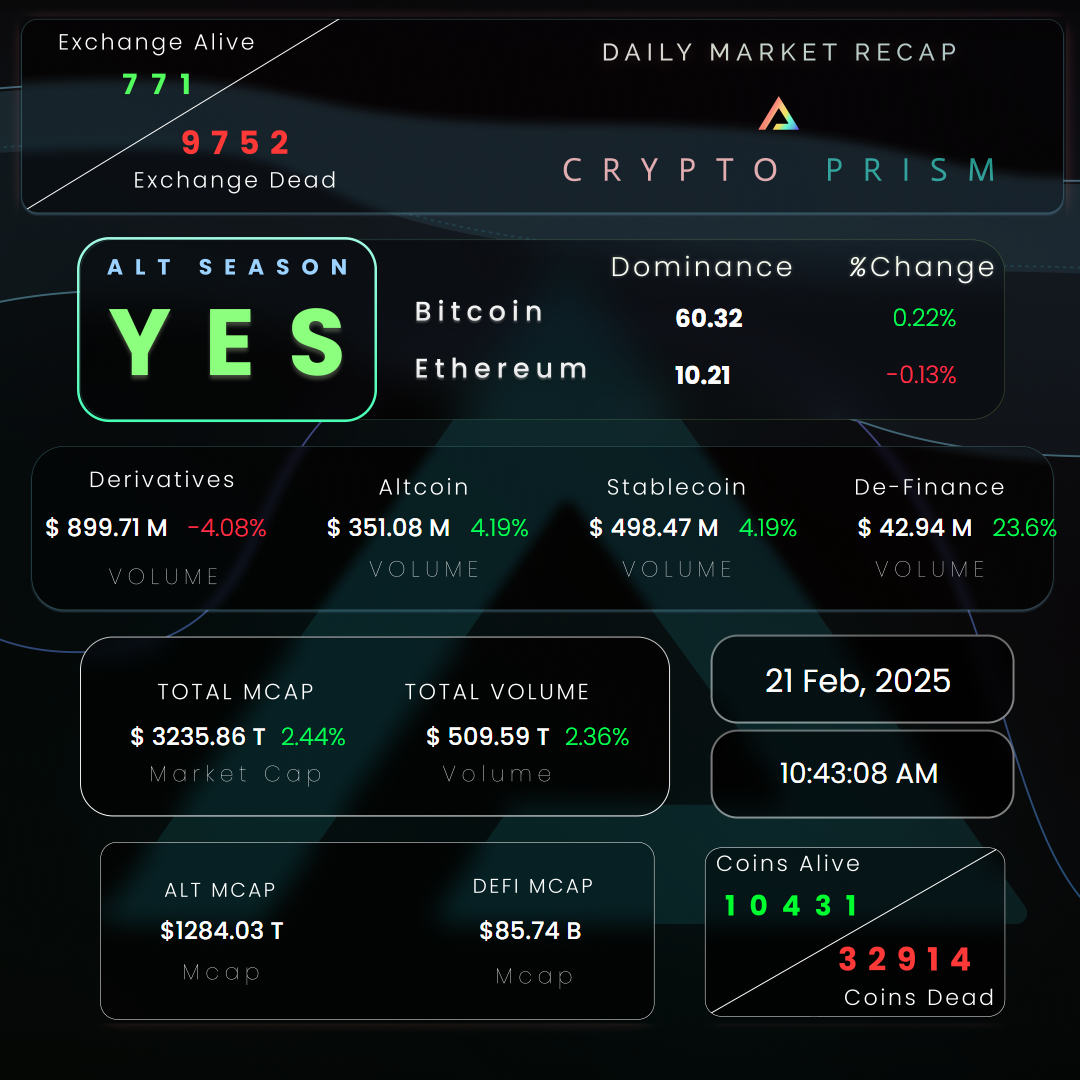
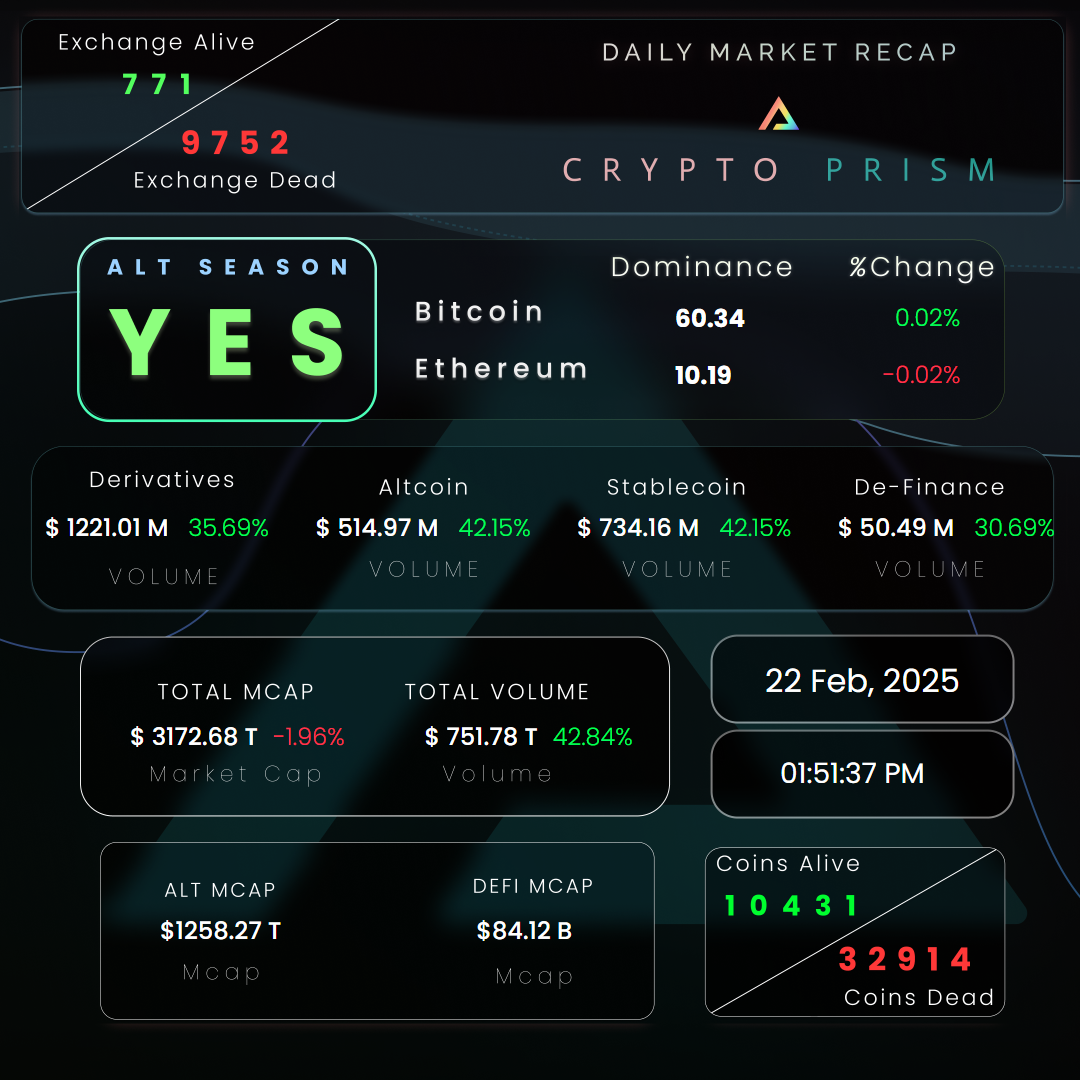
css fix

diff --git a/5_output.html b/5_output.html
@@ -14,12 +14,12 @@
         <div class="row1" style="display: flex; padding-bottom: 35px">
             <div class="season" style="font-size:21px">
                 <div style="display: flex; gap: 150px;">
-                    <h3 style="margin: 0px;">60.32</h3>
-                    <h3 style="margin: 0px;" class="pct-change positive">0.22%</h3>
+                    <h3 style="margin: 0px;">60.34</h3>
+                    <h3 style="margin: 0px;" class="pct-change positive">0.02%</h3>
                 </div>
                 <div style="display: flex; gap: 150px">
-                    <h3 style="margin-top: 10px;">10.21</h3>
-                    <h3 style="margin-top: 10px;" class="pct-change negative">-0.13%</h3>
+                    <h3 style="margin-top: 10px;">10.19</h3>
+                    <h3 style="margin-top: 10px;" class="pct-change negative">-0.02%</h3>
                 </div>
             </div>
         </div>
@@ -29,20 +29,20 @@
         <div class="row2" style="margin: 10px;">
             <div class="roww2">
                 <div style="display: flex; gap:20px">
-                    <h2 class="m-cap">$ 899.71 M</h2>
-                    <h3 class="pct-change negative" style="margin-top: 20px;">-4.08%</h3>
+                    <h2 class="m-cap">$ 1221.01 M</h2>
+                    <h3 class="pct-change positive" style="margin-top: 20px;">35.69%</h3>
                 </div>
                 <div style="display: flex; gap:20px">
-                    <h2 class="m-cap">$ 351.08 M</h3>
-                    <h3 class="pct-change positive" style="margin-top: 20px;">4.19%</h3>
+                    <h2 class="m-cap">$ 514.97 M</h3>
+                    <h3 class="pct-change positive" style="margin-top: 20px;">42.15%</h3>
                 </div>
                 <div style="display: flex; gap:20px">
-                    <h2 class="m-cap">$ 498.47 M</h3>
-                    <h3 class="pct-change positive" style="margin-top: 20px;">4.19%</h3>
+                    <h2 class="m-cap">$ 734.16 M</h3>
+                    <h3 class="pct-change positive" style="margin-top: 20px;">42.15%</h3>
                 </div>
                 <div style="display: flex; gap:20px">
-                    <h2 class="m-cap">$ 42.94 M</h3>
-                    <h3 class="pct-change positive" style="margin-top: 20px;">23.6%</h3>
+                    <h2 class="m-cap">$ 50.49 M</h3>
+                    <h3 class="pct-change positive" style="margin-top: 20px;">30.69%</h3>
                 </div>
             </div>
         </div>
@@ -52,12 +52,12 @@
         <div> 
                 <div class="roww3" style="display: flex; gap:80px;">
                     <div style="display: flex; gap:15px;">
-                        <p class="m-cap">$ 3235.86 T</p>
-                        <p class="pct-change positive">2.44%</p>
+                        <p class="m-cap">$ 3172.68 T</p>
+                        <p class="pct-change negative">-1.96%</p>
                     </div>
                     <div style="display: flex; gap:15px">
-                        <p class="m-cap">$ 509.59 T</p>
-                        <p class="pct-change positive">2.36%</p>
+                        <p class="m-cap">$ 751.78 T</p>
+                        <p class="pct-change positive">42.84%</p>
                     </div>
                 </div>
         </div>
@@ -66,17 +66,17 @@
     <div style="position: absolute; top: 889px; left: 145px;">
         <div class="row4">
             <div style="display: flex; gap:195px; padding-left: 15px">
-                <p class="m-cap" >$1284.03 T</p>
-                <p class="m-cap" >$85.74 B</p>
+                <p class="m-cap" >$1258.27 T</p>
+                <p class="m-cap" >$84.12 B</p>
             </div>
         </div>
     </div>
     <div style="position: absolute; top: 625px; left: 765px;">
-        <p class="date">21 Feb, 2025</p>
+        <p class="date">22 Feb, 2025</p>
     </div>
     
     <div style="position: absolute; top: 725px; left: 780px;">
-        <p class="time" style="font-size: 1.75rem;">10:43:08 AM</p>
+        <p class="time" style="font-size: 1.75rem;">01:51:37 PM</p>
     </div>
     
 </body>

diff --git a/style5.css b/style5.css
@@ -52,10 +52,13 @@ html, body {
 }
 
 .roww2 {
-    display: flex; 
-    gap: 60px; 
-    text-align: left;
+    display: flex;
+    gap: 40px;
+    text-align: center;
     min-width: 1080px;
+    justify-content: space-between;
+    max-width: 800px;
+    min-width: 1010px;
 }
 
 .roww3 {

diff --git a/instapost.py b/instapost.py
@@ -617,9 +617,9 @@ async def render_page_5():
 
 if __name__=="__main__":
 
-    asyncio.run(render_page_1())
-    asyncio.run(render_page_2())
-    asyncio.run(render_page_3())
-    asyncio.run(render_page_4())
+    #asyncio.run(render_page_1())
+    #asyncio.run(render_page_2())
+    #asyncio.run(render_page_3())
+    #asyncio.run(render_page_4())
     asyncio.run(render_page_5())
 
